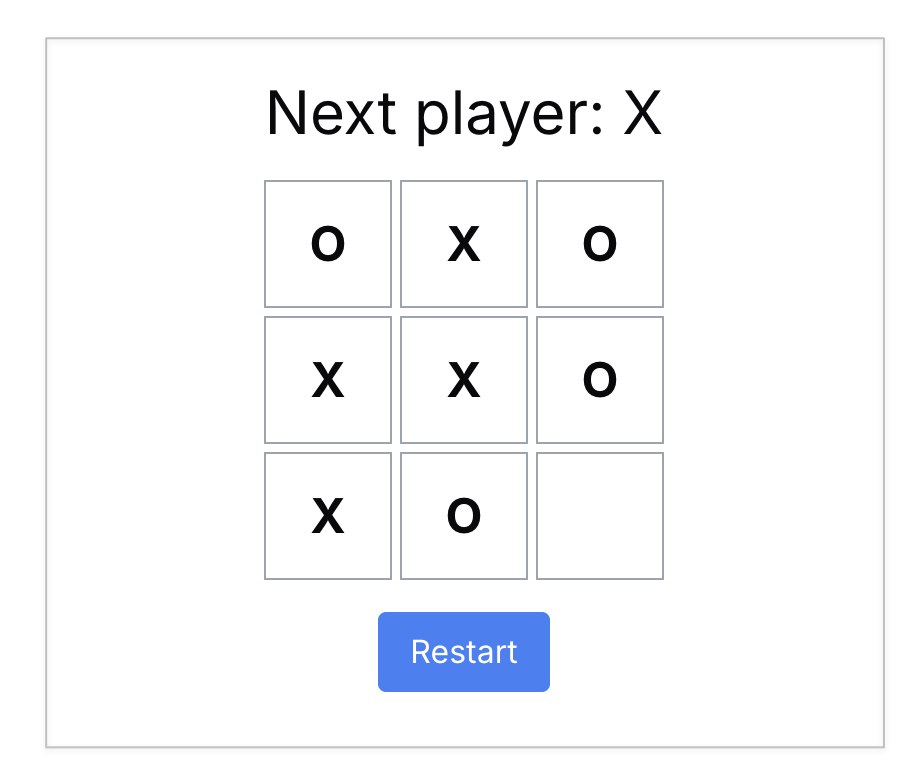
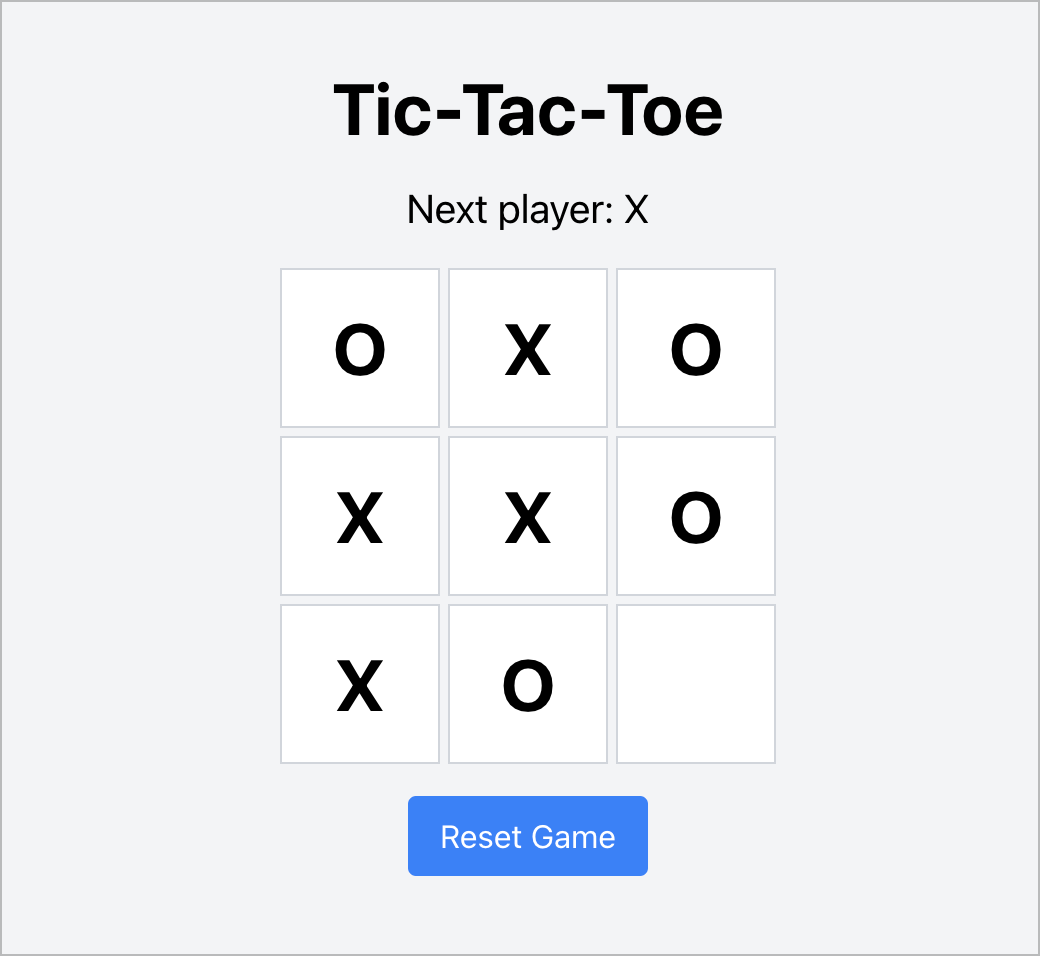
chore(tic-tac-toe-devin): implement using Devin

diff --git a/apps/tic-tac-toe-devin/src/routes/tic-tac-toe.tsx b/apps/tic-tac-toe-devin/src/routes/tic-tac-toe.tsx
@@ -1,11 +1,151 @@
+import { useState, useEffect } from 'react';
+
+type Square = string | null;
+type Board = Square[];
+
 export function TicTacToe() {
+  const [board, setBoard] = useState<Board>(Array(9).fill(null));
+  const [isXNext, setIsXNext] = useState(true);
+  const [status, setStatus] = useState('Next player: X');
+
+  const calculateWinner = (squares: Board) => {
+    const lines = [
+      [0, 1, 2],
+      [3, 4, 5],
+      [6, 7, 8],
+      [0, 3, 6],
+      [1, 4, 7],
+      [2, 5, 8],
+      [0, 4, 8],
+      [2, 4, 6],
+    ];
+    for (let i = 0; i < lines.length; i++) {
+      const [a, b, c] = lines[i];
+      if (
+        squares[a] &&
+        squares[a] === squares[b] &&
+        squares[a] === squares[c]
+      ) {
+        return squares[a];
+      }
+    }
+    return null;
+  };
+
+  // @ts-ignore
+  const handleClick = (i) => {
+    if (calculateWinner(board) || board[i]) return;
+    const newBoard = board.slice();
+    newBoard[i] = 'X';
+    setBoard(newBoard);
+    setIsXNext(false);
+  };
+
+  const minimax = (board: Board, depth: number, isMaximizing: boolean) => {
+    const winner = calculateWinner(board);
+    if (winner === 'X') return -10 + depth;
+    if (winner === 'O') return 10 - depth;
+    if (board.every((square) => square !== null)) return 0;
+
+    if (isMaximizing) {
+      let bestScore = -Infinity;
+      for (let i = 0; i < board.length; i++) {
+        if (board[i] === null) {
+          board[i] = 'O';
+          const score = minimax(board, depth + 1, false);
+          board[i] = null;
+          bestScore = Math.max(score, bestScore);
+        }
+      }
+      return bestScore;
+    }
+    let bestScore = Infinity;
+    for (let i = 0; i < board.length; i++) {
+      if (board[i] === null) {
+        board[i] = 'X';
+        const score = minimax(board, depth + 1, true);
+        board[i] = null;
+        bestScore = Math.min(score, bestScore);
+      }
+    }
+    return bestScore;
+  };
+
+  const bestMove = (board: Board) => {
+    let bestScore = -Infinity;
+    let move;
+    for (let i = 0; i < board.length; i++) {
+      if (board[i] === null) {
+        board[i] = 'O';
+        const score = minimax(board, 0, false);
+        board[i] = null;
+        if (score > bestScore) {
+          bestScore = score;
+          move = i;
+        }
+      }
+    }
+    return move;
+  };
+
+  const computerMove = () => {
+    const move = bestMove(board);
+    const newBoard = board.slice();
+    // @ts-ignore
+    newBoard[move] = 'O';
+    setBoard(newBoard);
+    setIsXNext(true);
+  };
+
+  useEffect(() => {
+    const winner = calculateWinner(board);
+    if (winner) {
+      setStatus(`Winner: ${winner}`);
+    } else if (board.every((square) => square !== null)) {
+      setStatus('Draw!');
+    } else {
+      setStatus(`Next player: ${isXNext ? 'X' : 'O'}`);
+    }
+
+    if (!isXNext && !winner) {
+      const timer = setTimeout(() => {
+        computerMove();
+      }, 500);
+      return () => {
+        clearTimeout(timer);
+      };
+    }
+  }, [board, isXNext]);
+
+  // @ts-ignore
+  const renderSquare = (i) => (
+    <button
+      className="size-20 border border-gray-300 bg-white text-4xl font-bold focus:outline-none"
+      onClick={() => {
+        handleClick(i);
+      }}
+    >
+      {board[i]}
+    </button>
+  );
+
   return (
-    <div className="container relative mx-auto max-w-screen-xl px-8 py-4">
-      This app is bootstrapped with{' '}
-      <a className="text-blue-600" href="https://code-shaper.dev">
-        Code Shaper
-      </a>
-      .
+    <div className="flex min-h-screen flex-col items-center justify-center bg-gray-100">
+      <h1 className="mb-4 text-4xl font-bold">Tic-Tac-Toe</h1>
+      <div className="status mb-4 text-xl">{status}</div>
+      <div className="board grid grid-cols-3 gap-1">
+        {board.map((_, i) => renderSquare(i))}
+      </div>
+      <button
+        className="mt-4 rounded bg-blue-500 px-4 py-2 text-white hover:bg-blue-600"
+        onClick={() => {
+          setBoard(Array(9).fill(null));
+          setIsXNext(true);
+          setStatus('Next player: X');
+        }}
+      >
+        Reset Game
+      </button>
     </div>
   );
 }

diff --git a/apps/tic-tac-toe-devin/README.md b/apps/tic-tac-toe-devin/README.md
@@ -2,6 +2,25 @@
 
 ![screenshot](assets/tic-tac-toe-devin.png)
 
-It took x prompts to get the logic right!
+It took 2 prompts to get the logic right!
 
 ### Prompt 1
+
+Create a Tic-Tac-Toe game in React. It should allow the user to play against the
+computer. Use Tailwind CSS to style the application.
+
+### Prompt 2
+
+The algorithm for computing the computer's next move is extremely dumb. Can you
+make that algorithm smart so that it gives a tough competition to the user?
+
+**Response**
+
+I understand that you're looking for a more challenging opponent in the
+Tic-Tac-Toe game. Improving the computer's move algorithm to make smarter
+decisions is definitely possible. I'll work on implementing a more advanced
+algorithm like minimax to enhance the computer's gameplay. I'll get started on
+this and update you once I have made progress. Thank you for the feedback!
+
+The Tic-Tac-Toe game in React has been successfully enhanced with a smarter
+computer opponent using the minimax algorithm.
